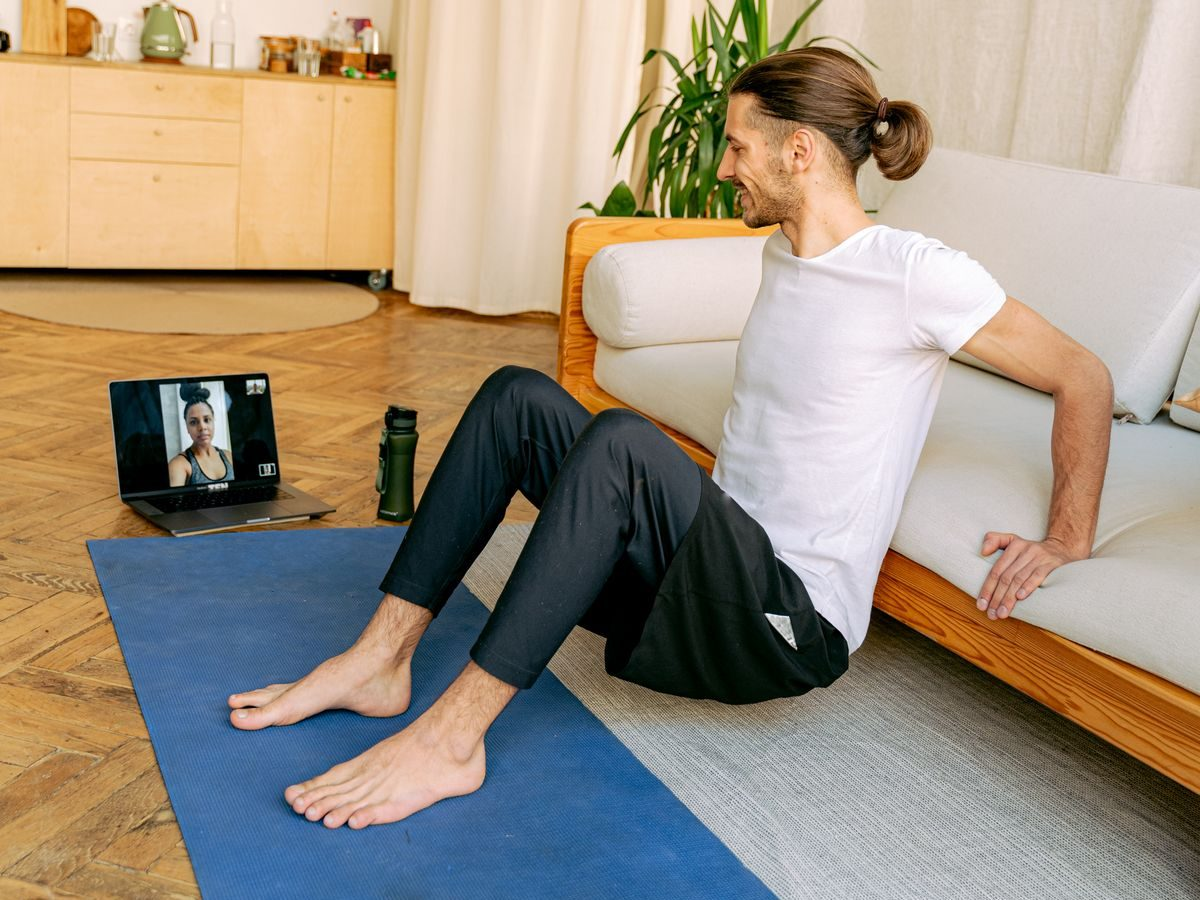
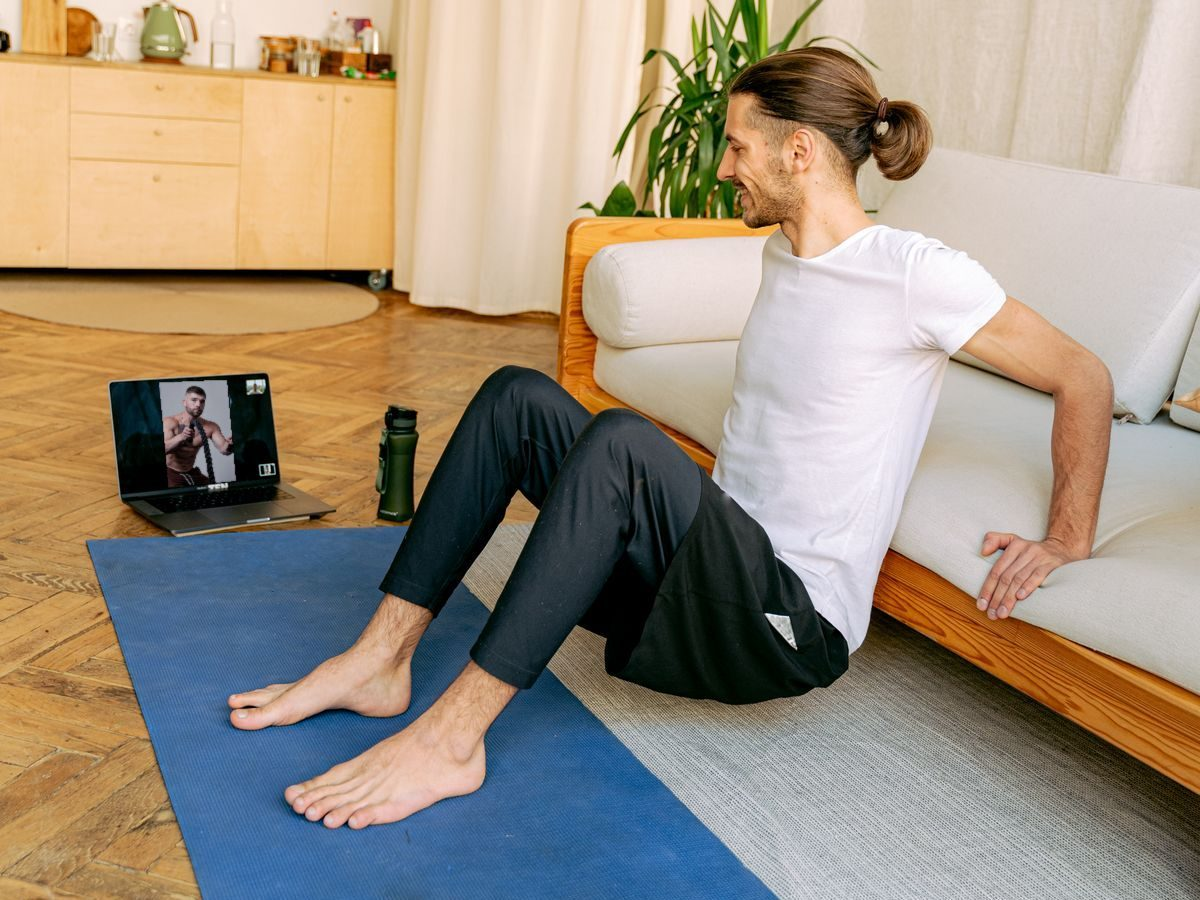
Show Jeffrey as the trainer on the laptop in the Online photo
Claude-Session: https://claude.ai/code/session_01D2PD2TBFrKV2jLNu4ZsEov

Changed region(s): [[0.1233, 0.4044, 0.2158, 0.56]]

diff --git a/index.html b/index.html
@@ -423,7 +423,7 @@ footer a:hover{color:#fff}
         </div>
       </li>
       <li class="way">
-        <img src="assets/online.jpg" alt="A man working out at home on a yoga mat, following his online trainer on a laptop video call" width="1200" height="900" loading="lazy" style="--pos:50% 20%;--pos-m:50% 50%">
+        <img src="assets/online.jpg" alt="A client working out at home on a yoga mat, following Jeffrey on a laptop video call" width="1200" height="900" loading="lazy" style="--pos:50% 20%;--pos-m:50% 50%">
         <div class="body">
           <span class="num">03</span>
           <h3>Online, wherever you are</h3>
